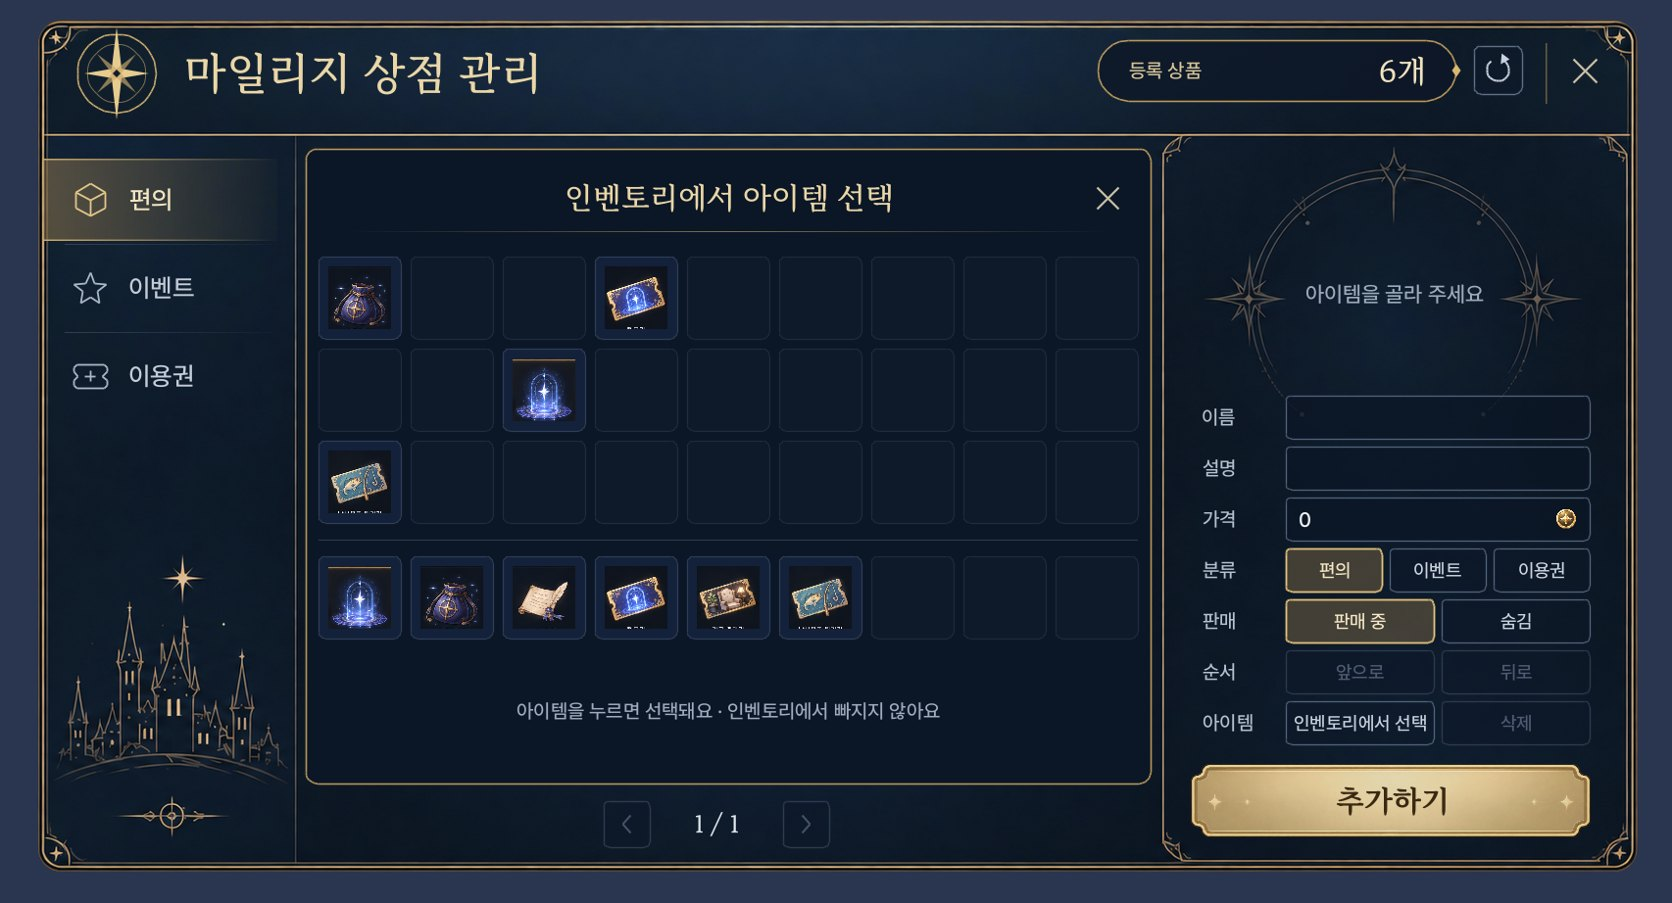
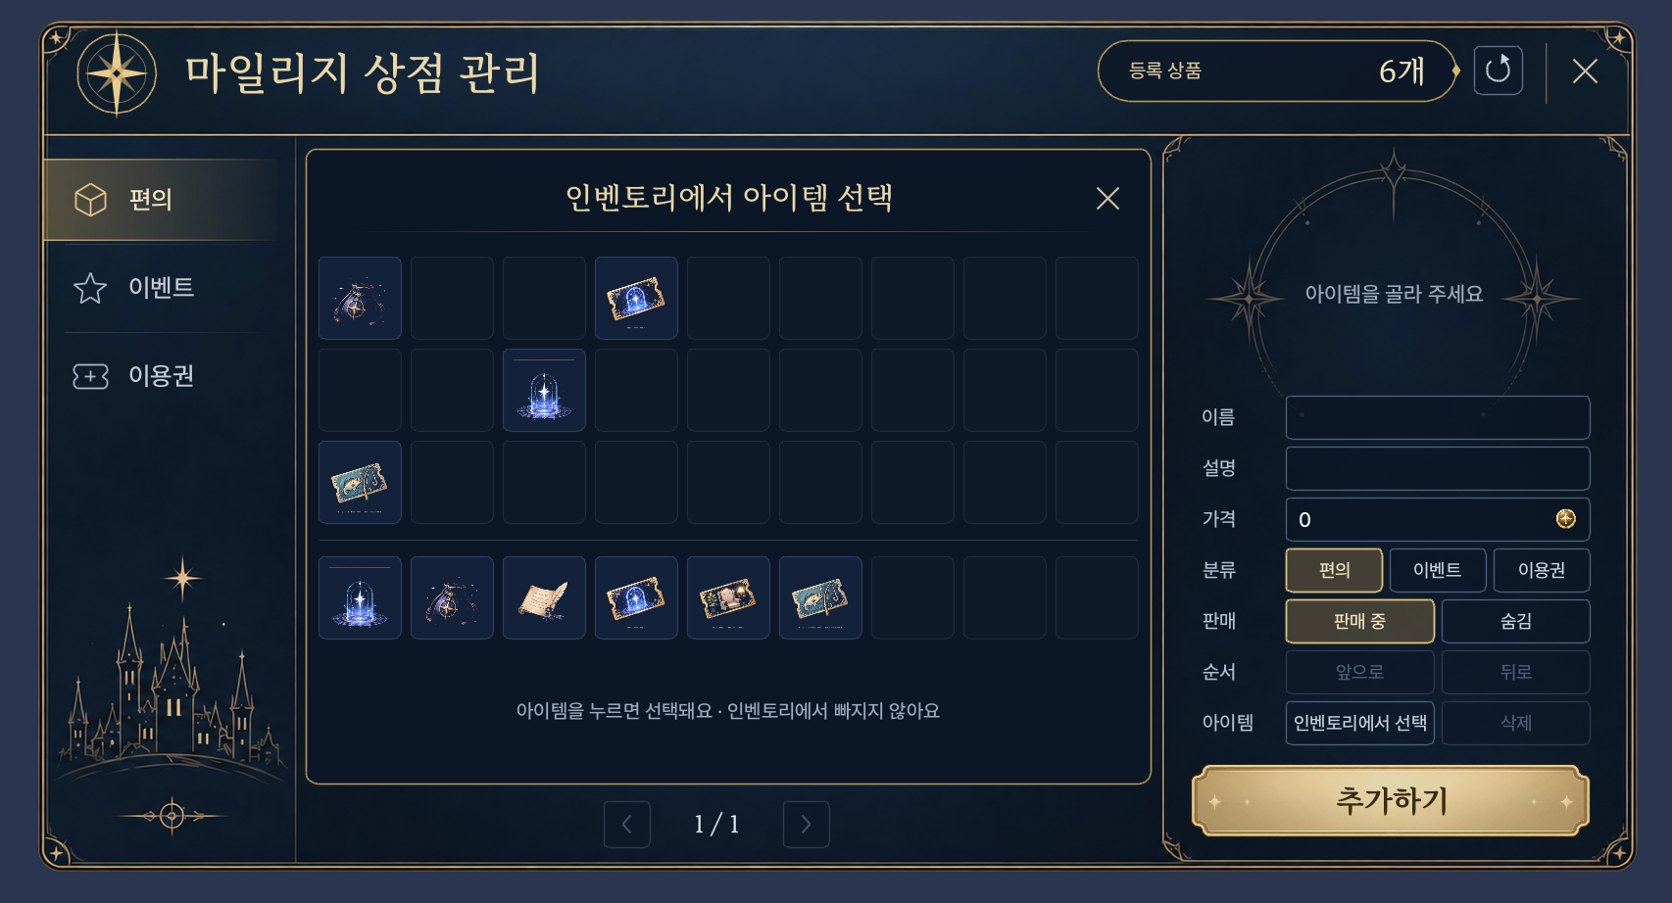
마일리지 상점: 카드 아래쪽 어두운 띠 삭제 — 아이템 아이콘 뒤에 배경을 그리지 않음
Claude-Session: https://claude.ai/code/session_01XHiPyhHCydVc8jyjuSTA8d

diff --git a/magic-codex-fabric/src/main/java/school/magiccodex/client/MileageView.java b/magic-codex-fabric/src/main/java/school/magiccodex/client/MileageView.java
@@ -301,7 +301,6 @@ final class MileageView {
         boolean sel = card.id().equals(m.selected()), hover = in(m.mx(), m.my(), x, y, CARD_W, CARD_H);
         if (sel) { stroke(c, round(x - 3, y - 3, CARD_W + 6, CARD_H + 6, 11), 3, 0x30E4C47C); stroke(c, round(x - 6, y - 6, CARD_W + 12, CARD_H + 12, 14), 3, 0x14E4C47C); }
         c.polygon(round(x, y, CARD_W, CARD_H, 8), sel ? 0xFF182640 : CARD_FILL);
-        c.gradient(x + 4, y + CARD_H * .55f, CARD_W - 8, CARD_H * .45f - 4, 0x300A1220, 0x300A1220);
         stroke(c, round(x, y, CARD_W, CARD_H, 8), sel ? 2.2f : 1.3f, sel ? SELECT : hover ? CARD_HOVER : CARD_EDGE);
         float cx = x + CARD_W / 2, inner = CARD_W - 28;
         if (card.add()) {

diff --git a/docs/handoff/CLAUDE_MILEAGE_SHOP_20261024.md b/docs/handoff/CLAUDE_MILEAGE_SHOP_20261024.md
@@ -101,3 +101,8 @@
 - 프로토콜: `ADMIN_ADD`·`ADMIN_ITEM` 끝에 `byte slot`(0~8 핫바, 9~35 본 인벤 — Bukkit `getItem(slot)`·클라 `getInventory().getStack(slot)` 같은 번호). `Request.add/save/replace/delete` 로 생성자 정리.
 - 서버는 그 칸 아이템의 1개짜리 복사본을 저장(인벤토리에서 빠지지 않음). 칸이 비었으면 「고른 칸에 아이템이 없어요」 상태를 다시 보내 창의 처리 중 표시도 풀린다. 관리 요청 실패도 같은 방식(알림 대신 상태 + 문구).
 - 미리보기: `img/mileage/p_admin_pick.jpg`, `p_admin_new.jpg`.
+
+## 10. 4차 수정 (오너 2026-10-24: 아이템 뒤 검은 배경 넣지 말 것)
+
+- 카드 아래쪽 절반에 깔던 옅은 어두운 띠(`0x300A1220`)를 삭제 — 아이콘 아래쪽과 겹쳐 아이템 뒤가 어두워 보였음. 이제 아이템 아이콘 뒤에는 카드 바탕 말고 아무것도 그리지 않는다(카드·상세·인벤토리 선택 창 모두).
+- 이전 미리보기의 검은 네모는 시안 그림을 잘라 아이콘 대신 쓴 미리보기 전용 흔적이었음. 미리보기 도구에서 배경을 빼서 다시 렌더링.
